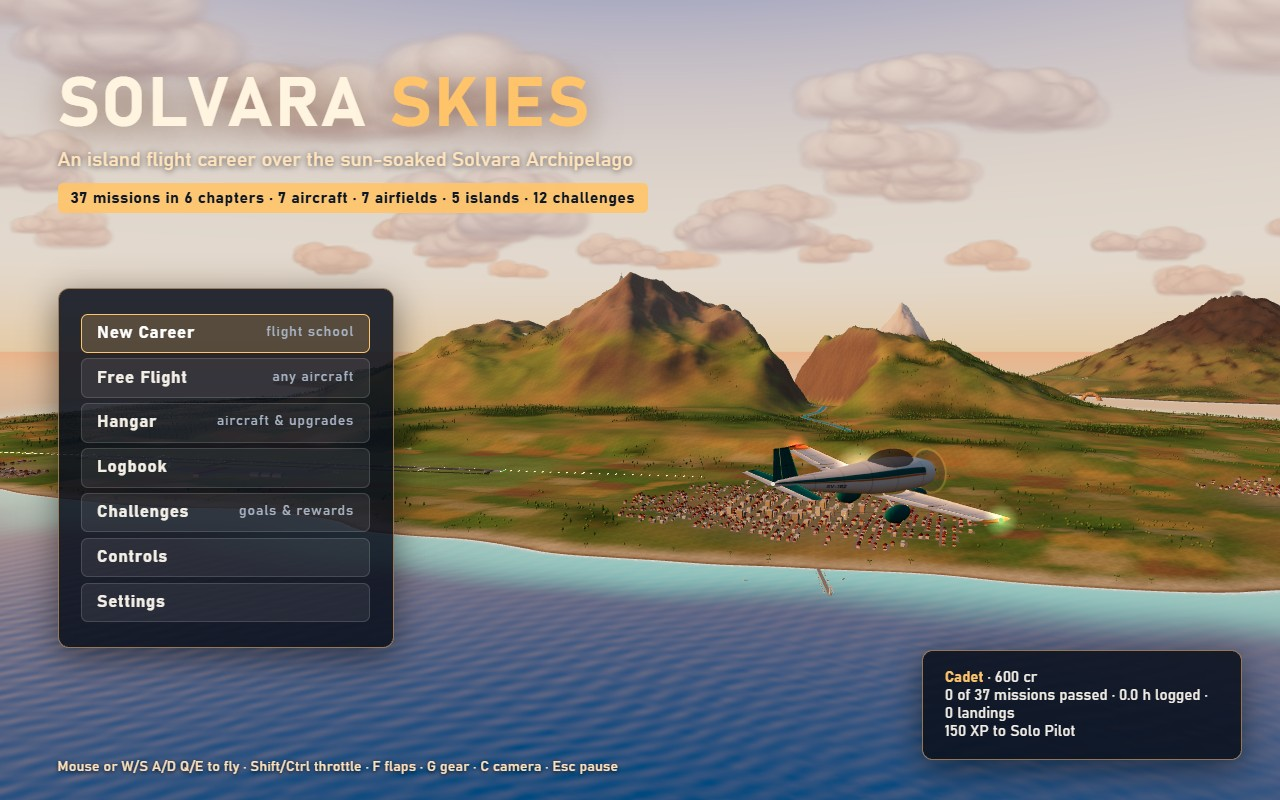
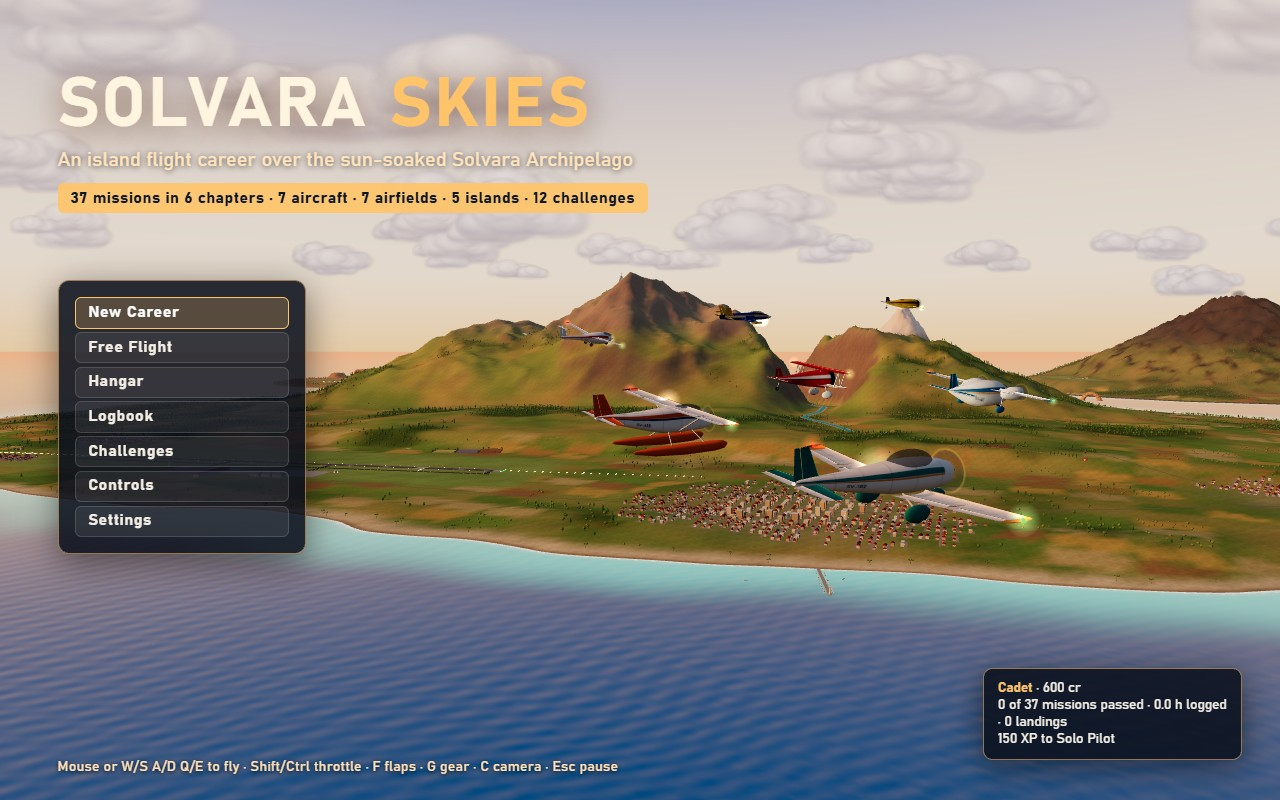
Title screen: the whole fleet of seven flies in formation over Marenza at golden hour, each type in its own livery with the selected aircraft leading; compact menu on the left; the seven types also stand on Marenza's flight line on concrete slabs with painted stand lines

diff --git a/game/src/core/titleBackdrop.js b/game/src/core/titleBackdrop.js
@@ -1,21 +1,60 @@
 // The living backdrop behind the menus: an air-to-air photo flight. The camera circles the
-// archipelago at golden hour while the selected aircraft holds formation just off to the right,
-// banking gently, with Porto Celeste, the airport and the mountains beyond.
+// archipelago at golden hour. On the title screen the whole fleet flies past in an echelon off to
+// the right, each type in its own livery, the selected one leading; behind the other menus only
+// the selected aircraft holds formation, banking gently, with Porto Celeste, the airport and the
+// mountains beyond. (The fleet also stands parked on Marenza's flight line, see apronDisplay.js.)
 import * as THREE from 'three';
+import { AIRCRAFT } from '../aircraft/aircraftCatalog.js';
+import { buildAircraftModel } from '../aircraft/aircraftModelBuilder.js';
 
 const CENTRE = new THREE.Vector3(-1200, 0, 1600);
 const RADIUS = 4200;
 const HEIGHT = 470;
 
+/** Formation slots from the camera: [metres ahead, right and up as fractions of the distance
+ *  ahead]. The lead is nearest, low on the right; the wingmen spread out ahead of it over the
+ *  islands, stepped up so every aircraft stands clear of the others. */
+const ECHELON = [[29, 0.32, -0.1], [60, 0.04, -0.035], [76, 0.21, 0.03], [92, 0.42, 0.01], [108, -0.06, 0.07], [124, 0.13, 0.1], [142, 0.32, 0.12]]
+  .map(([ahead, right, up]) => [ahead, ahead * right, ahead * up]);
+
+function animateRig(rig, dt, time) {
+  for (const prop of rig.props ?? [rig.prop]) {
+    if (!prop) continue;
+    prop.spin.rotation.z += dt * 70;
+    prop.disc.material.opacity = 0.75;
+    for (const b of prop.blades) b.visible = false;
+  }
+  if (rig.jet) rig.jet.glowMaterial.opacity = 0.9;
+  for (const leg of rig.gearLegs) if (leg.fold !== 'fixed') leg.group.visible = false;
+  rig.lights.update(time, true, 0.6);
+  rig.exterior.visible = true;
+}
+
 /** Creates the backdrop driver for the session and camera director. */
 export function createTitleBackdrop(session, director, camera) {
   const q = new THREE.Quaternion();
+  const wingman = new THREE.Quaternion();
   const euler = new THREE.Euler(0, 0, 0, 'YXZ');
   const position = new THREE.Vector3();
+  const slot = new THREE.Vector3();
   const forward = new THREE.Vector3();
   const right = new THREE.Vector3();
   const up = new THREE.Vector3(0, 1, 0);
   let angle = THREE.MathUtils.degToRad(78);
+  // The fleet's other aircraft, built the first time the title shows them.
+  const fleet = new Map();
+  let fleetGroup = null;
+  const fleetRig = (id) => {
+    if (!fleet.has(id)) {
+      const rig = buildAircraftModel(id);
+      rig.exterior.children.forEach((child, i) => {
+        if (i > 0) child.visible = true;
+      });
+      fleetGroup.add(rig.root);
+      fleet.set(id, rig);
+    }
+    return fleet.get(id);
+  };
   return {
     enter(aircraftId = 'wren') {
       director.view = 'manual';
@@ -25,7 +64,7 @@ export function createTitleBackdrop(session, director, camera) {
     setAngle(deg) {
       angle = THREE.MathUtils.degToRad(deg);
     },
-    update(dt, time, aircraftId) {
+    update(dt, time, aircraftId, withFleet = false) {
       angle -= dt * 0.012;
       camera.position.set(CENTRE.x + Math.cos(angle) * RADIUS, HEIGHT + Math.sin(time * 0.2) * 4, CENTRE.z + Math.sin(angle) * RADIUS);
       forward.set(-Math.cos(angle), -0.07, -Math.sin(angle)).normalize();
@@ -36,21 +75,35 @@ export function createTitleBackdrop(session, director, camera) {
       }
       camera.up.set(0, 1, 0);
       camera.lookAt(camera.position.x + forward.x * 100, camera.position.y + forward.y * 100, camera.position.z + forward.z * 100);
-      position.copy(camera.position).addScaledVector(forward, 29).addScaledVector(right, 8.6).addScaledVector(up, -2.9 + Math.sin(time * 0.7) * 0.4);
+      const [ahead, aside, lift] = ECHELON[0];
+      position.copy(camera.position).addScaledVector(forward, ahead).addScaledVector(right, aside).addScaledVector(up, lift + Math.sin(time * 0.7) * 0.4);
       const motion = Math.atan2(right.x, -right.z);
       const heading = motion - THREE.MathUtils.degToRad(28);
       euler.set(0.03 + Math.sin(time * 0.5) * 0.01, -heading, -0.16 + Math.sin(time * 0.33) * 0.04);
       q.setFromEuler(euler);
       const rig = session.showModel(aircraftId, position, q);
-      if (rig.prop) {
-        rig.prop.spin.rotation.z += dt * 70;
-        rig.prop.disc.material.opacity = 0.75;
-        for (const b of rig.prop.blades) b.visible = false;
+      animateRig(rig, dt, time);
+      if (!fleetGroup) {
+        fleetGroup = new THREE.Group();
+        fleetGroup.name = 'title-fleet';
+        rig.root.parent.add(fleetGroup);
       }
-      if (rig.jet) rig.jet.glowMaterial.opacity = 0.9;
-      for (const leg of rig.gearLegs) if (leg.fold !== 'fixed') leg.group.visible = false;
-      rig.lights.update(time, true, 0.6);
-      rig.exterior.visible = true;
+      fleetGroup.visible = withFleet;
+      if (withFleet) {
+        // The rest of the fleet in echelon right, each a little behind and below the one before,
+        // every pilot holding the lead's bank with a small bob of their own.
+        const others = AIRCRAFT.map((a) => a.id).filter((id) => id !== aircraftId);
+        others.forEach((id, k) => {
+          const [a, s, l] = ECHELON[k + 1];
+          slot.copy(camera.position).addScaledVector(forward, a).addScaledVector(right, s).addScaledVector(up, l + Math.sin(time * 0.6 + k * 1.7) * 0.5);
+          euler.set(0.03 + Math.sin(time * 0.5 + k) * 0.01, -heading, -0.16 + Math.sin(time * 0.33 + k * 0.8) * 0.05);
+          wingman.setFromEuler(euler);
+          const other = fleetRig(id);
+          other.root.position.copy(slot);
+          other.root.quaternion.copy(wingman);
+          animateRig(other, dt, time);
+        });
+      }
       return position;
     },
   };

diff --git a/game/src/world/airfieldBuilder.js b/game/src/world/airfieldBuilder.js
@@ -13,8 +13,53 @@ const RED = new THREE.Color('#ff3328');
 const AMBER = new THREE.Color('#ffb340');
 const PAPI_ANGLES = [2.5, 2.83, 3.17, 3.5];
 
+/** Apron concrete: two by two 5 m slabs per repeat with dark joints, grain and a few oil stains. */
+function concreteTexture() {
+  const size = 256;
+  const canvas = document.createElement('canvas');
+  canvas.width = size;
+  canvas.height = size;
+  const ctx = canvas.getContext('2d');
+  ctx.fillStyle = '#c3c2be';
+  ctx.fillRect(0, 0, size, size);
+  let seed = 7;
+  const rand = () => {
+    seed = (seed * 16807) % 2147483647;
+    return seed / 2147483647;
+  };
+  // Each slab a slightly different shade, as poured on different days.
+  for (const [x, y] of [[0, 0], [128, 0], [0, 128], [128, 128]]) {
+    ctx.fillStyle = `rgba(${rand() < 0.5 ? '0,0,0' : '255,255,255'},${0.03 + rand() * 0.05})`;
+    ctx.fillRect(x, y, 128, 128);
+  }
+  for (let i = 0; i < 2600; i += 1) {
+    ctx.fillStyle = rand() < 0.5 ? 'rgba(0,0,0,0.06)' : 'rgba(255,255,255,0.07)';
+    ctx.fillRect(rand() * size, rand() * size, 1 + rand() * 2, 1 + rand() * 2);
+  }
+  for (let i = 0; i < 5; i += 1) {
+    const x = rand() * size;
+    const y = rand() * size;
+    const g = ctx.createRadialGradient(x, y, 1, x, y, 10 + rand() * 18);
+    g.addColorStop(0, 'rgba(40,36,30,0.1)');
+    g.addColorStop(1, 'rgba(40,36,30,0)');
+    ctx.fillStyle = g;
+    ctx.fillRect(x - 30, y - 30, 60, 60);
+  }
+  ctx.fillStyle = 'rgba(60,58,54,0.55)';
+  for (const p of [0, 128]) {
+    ctx.fillRect(p, 0, 2, size);
+    ctx.fillRect(0, p, size, 2);
+  }
+  const texture = new THREE.CanvasTexture(canvas);
+  texture.wrapS = THREE.RepeatWrapping;
+  texture.wrapT = THREE.RepeatWrapping;
+  texture.colorSpace = THREE.SRGBColorSpace;
+  texture.anisotropy = 8;
+  return texture;
+}
+
 const materials = {
-  apron: new THREE.MeshLambertMaterial({ color: '#8d8b86' }),
+  apron: new THREE.MeshLambertMaterial({ color: '#ffffff', map: concreteTexture() }),
   taxi: new THREE.MeshLambertMaterial({ color: '#4a4b4e' }),
   taxiLine: new THREE.MeshBasicMaterial({ color: '#e8c234' }),
   hangarWall: new THREE.MeshLambertMaterial({ color: '#e7e1d6' }),
@@ -247,7 +292,11 @@ export function buildAirfields(terrain) {
       group.add(runway);
       // Apron, taxiways and their yellow lines.
       const apronAcross = side * (field.apronOffset + field.apronDepth / 2);
-      group.add(flatStrip(field, 0, apronAcross, field.apronLength, field.apronDepth, y + 0.09, materials.apron));
+      const apron = flatStrip(field, 0, apronAcross, field.apronLength, field.apronDepth, y + 0.09, materials.apron);
+      // One concrete texture repeat covers 7 m, whatever the apron's size.
+      const apronUv = apron.geometry.getAttribute('uv');
+      for (let i = 0; i < apronUv.count; i += 1) apronUv.setXY(i, (apronUv.getX(i) * field.apronDepth) / 7, (apronUv.getY(i) * field.apronLength) / 7);
+      group.add(apron);
       for (const along of [-field.apronLength * 0.35, field.apronLength * 0.35]) {
         const taxiLength = field.apronOffset - field.width / 2 + 4;
         const taxiAcross = side * (field.width / 2 + taxiLength / 2 - 2);

diff --git a/game/src/core/apronDisplay.js b/game/src/core/apronDisplay.js
@@ -5,16 +5,22 @@ import { buildAircraftModel } from '../aircraft/aircraftModelBuilder.js';
 import { airfieldById, fromRunwayFrame } from '../world/airfieldDirectory.js';
 
 const PARKING = [
+  // Marenza's flight line: every type in the fleet, nose to the runway in its own livery, the
+  // smallest at the west end where the title camera stands, the long-winged ones further east.
+  { field: 'marenza', aircraft: 'kestrel', along: -228 },
+  { field: 'marenza', aircraft: 'saker', along: -208 },
+  { field: 'marenza', aircraft: 'wren', along: -186 },
+  { field: 'marenza', aircraft: 'swiftlet', along: -162 },
+  { field: 'marenza', aircraft: 'heron', along: -135 },
+  { field: 'marenza', aircraft: 'pelican', along: -104 },
+  { field: 'marenza', aircraft: 'swallow', along: -70 },
   { field: 'marenza', aircraft: 'wren', along: 150 },
-  { field: 'marenza', aircraft: 'wren', along: 118 },
   { field: 'marenza', aircraft: 'heron', along: 70 },
-  { field: 'marenza', aircraft: 'swiftlet', along: 10 },
-  { field: 'marenza', aircraft: 'kestrel', along: -40 },
-  { field: 'marenza', aircraft: 'pelican', along: -110 },
-  { field: 'marenza', aircraft: 'saker', along: -168 },
   { field: 'orsa', aircraft: 'wren', along: 40 },
   { field: 'calvera', aircraft: 'wren', along: 0 },
 ];
+
+const STAND_PAINT = new THREE.MeshBasicMaterial({ color: '#e8c234', polygonOffset: true, polygonOffsetFactor: -2, polygonOffsetUnits: -2 });
 
 /** Builds the parked aircraft into the scene. */
 export function parkDisplayAircraft(scene) {
@@ -27,7 +33,7 @@ export function parkDisplayAircraft(scene) {
       if (o.isLight) o.visible = false;
     });
     rig.lights.group.visible = false;
-    if (rig.prop) rig.prop.disc.visible = false;
+    for (const prop of rig.props ?? [rig.prop]) if (prop) prop.disc.visible = false;
     rig.exterior.children.forEach((child, i) => {
       if (i > 0) child.visible = false;
     });
@@ -37,6 +43,20 @@ export function parkDisplayAircraft(scene) {
     rig.root.position.set(p.x, field.elevationResolved - lowest + 0.05, p.z);
     rig.root.rotation.set(0, -THREE.MathUtils.degToRad(field.heading - 90 * field.apronSide), 0);
     group.add(rig.root);
+    // The stand: a yellow lead-in line from the taxi lane to the parked aircraft and a stop bar.
+    const y = field.elevationResolved + 0.15;
+    const lineFrom = field.apronOffset + 3;
+    const lineTo = field.apronOffset + field.apronDepth * 0.55 + 6;
+    const lead = fromRunwayFrame(field, slot.along, field.apronSide * ((lineFrom + lineTo) / 2));
+    const strip = new THREE.Mesh(new THREE.PlaneGeometry(0.4, lineTo - lineFrom).rotateX(-Math.PI / 2), STAND_PAINT);
+    strip.position.set(lead.x, y, lead.z);
+    strip.rotation.y = -THREE.MathUtils.degToRad(field.heading - 90);
+    group.add(strip);
+    const stop = fromRunwayFrame(field, slot.along, field.apronSide * (lineFrom + 4));
+    const bar = new THREE.Mesh(new THREE.PlaneGeometry(4, 0.5).rotateX(-Math.PI / 2), STAND_PAINT);
+    bar.position.set(stop.x, y, stop.z);
+    bar.rotation.y = -THREE.MathUtils.degToRad(field.heading - 90);
+    group.add(bar);
   }
   scene.add(group);
   return group;

diff --git a/game/styles/menus.css b/game/styles/menus.css
@@ -24,8 +24,10 @@
 #screen-title .brand h1 span { color: var(--accent); }
 #screen-title .brand .tagline { font-size: 1.25em; color: #ffe3bd; margin-top: 0.35em; text-shadow: 0 1px 6px rgba(0, 0, 0, 0.7); }
 #screen-title .brand .features { margin-top: 0.7em; display: inline-block; padding: 0.35em 0.8em; font-size: 1.0em; font-weight: 700; color: #0d1726; background: rgba(255, 196, 106, 0.92); border-radius: 0.35em; letter-spacing: 0.03em; }
-#screen-title .menu { left: 4.5%; top: 36%; width: 21em; }
-#screen-title .career-card { right: 3%; bottom: 5%; width: 21em; font-size: 0.95em; }
+#screen-title .menu { left: 4.5%; top: 35%; width: 15.5em; padding: 0.8em 1em; }
+#screen-title .menu .btn { padding: 0.36em 0.8em; margin: 0.22em 0; font-size: 0.98em; }
+#screen-title .menu .btn small { display: none; }
+#screen-title .career-card { right: 3%; bottom: 5%; width: 19em; font-size: 0.85em; padding: 0.8em 1em; }
 #screen-title .career-card b { color: var(--accent); }
 #screen-title .hint { position: absolute; left: 4.5%; bottom: 3%; color: #ffe3bd; font-size: 0.9em; text-shadow: 0 1px 4px #000; }
 

diff --git a/game/src/core/gameDirector.js b/game/src/core/gameDirector.js
@@ -480,7 +480,7 @@ export function createGameDirector({ view, world, shotMode = false }) {
     let focus;
     if (state === 'title' || (state === 'menu' && !session.body)) {
       controls.update(dt, false);
-      focus = backdrop.update(dt, time, career.selected);
+      focus = backdrop.update(dt, time, career.selected, state === 'title');
       cameras.update(dt, null, null, world, controls.mouse.state, false);
       flightSounds.update(false, readout, [], time);
     } else if (state === 'menu') {
